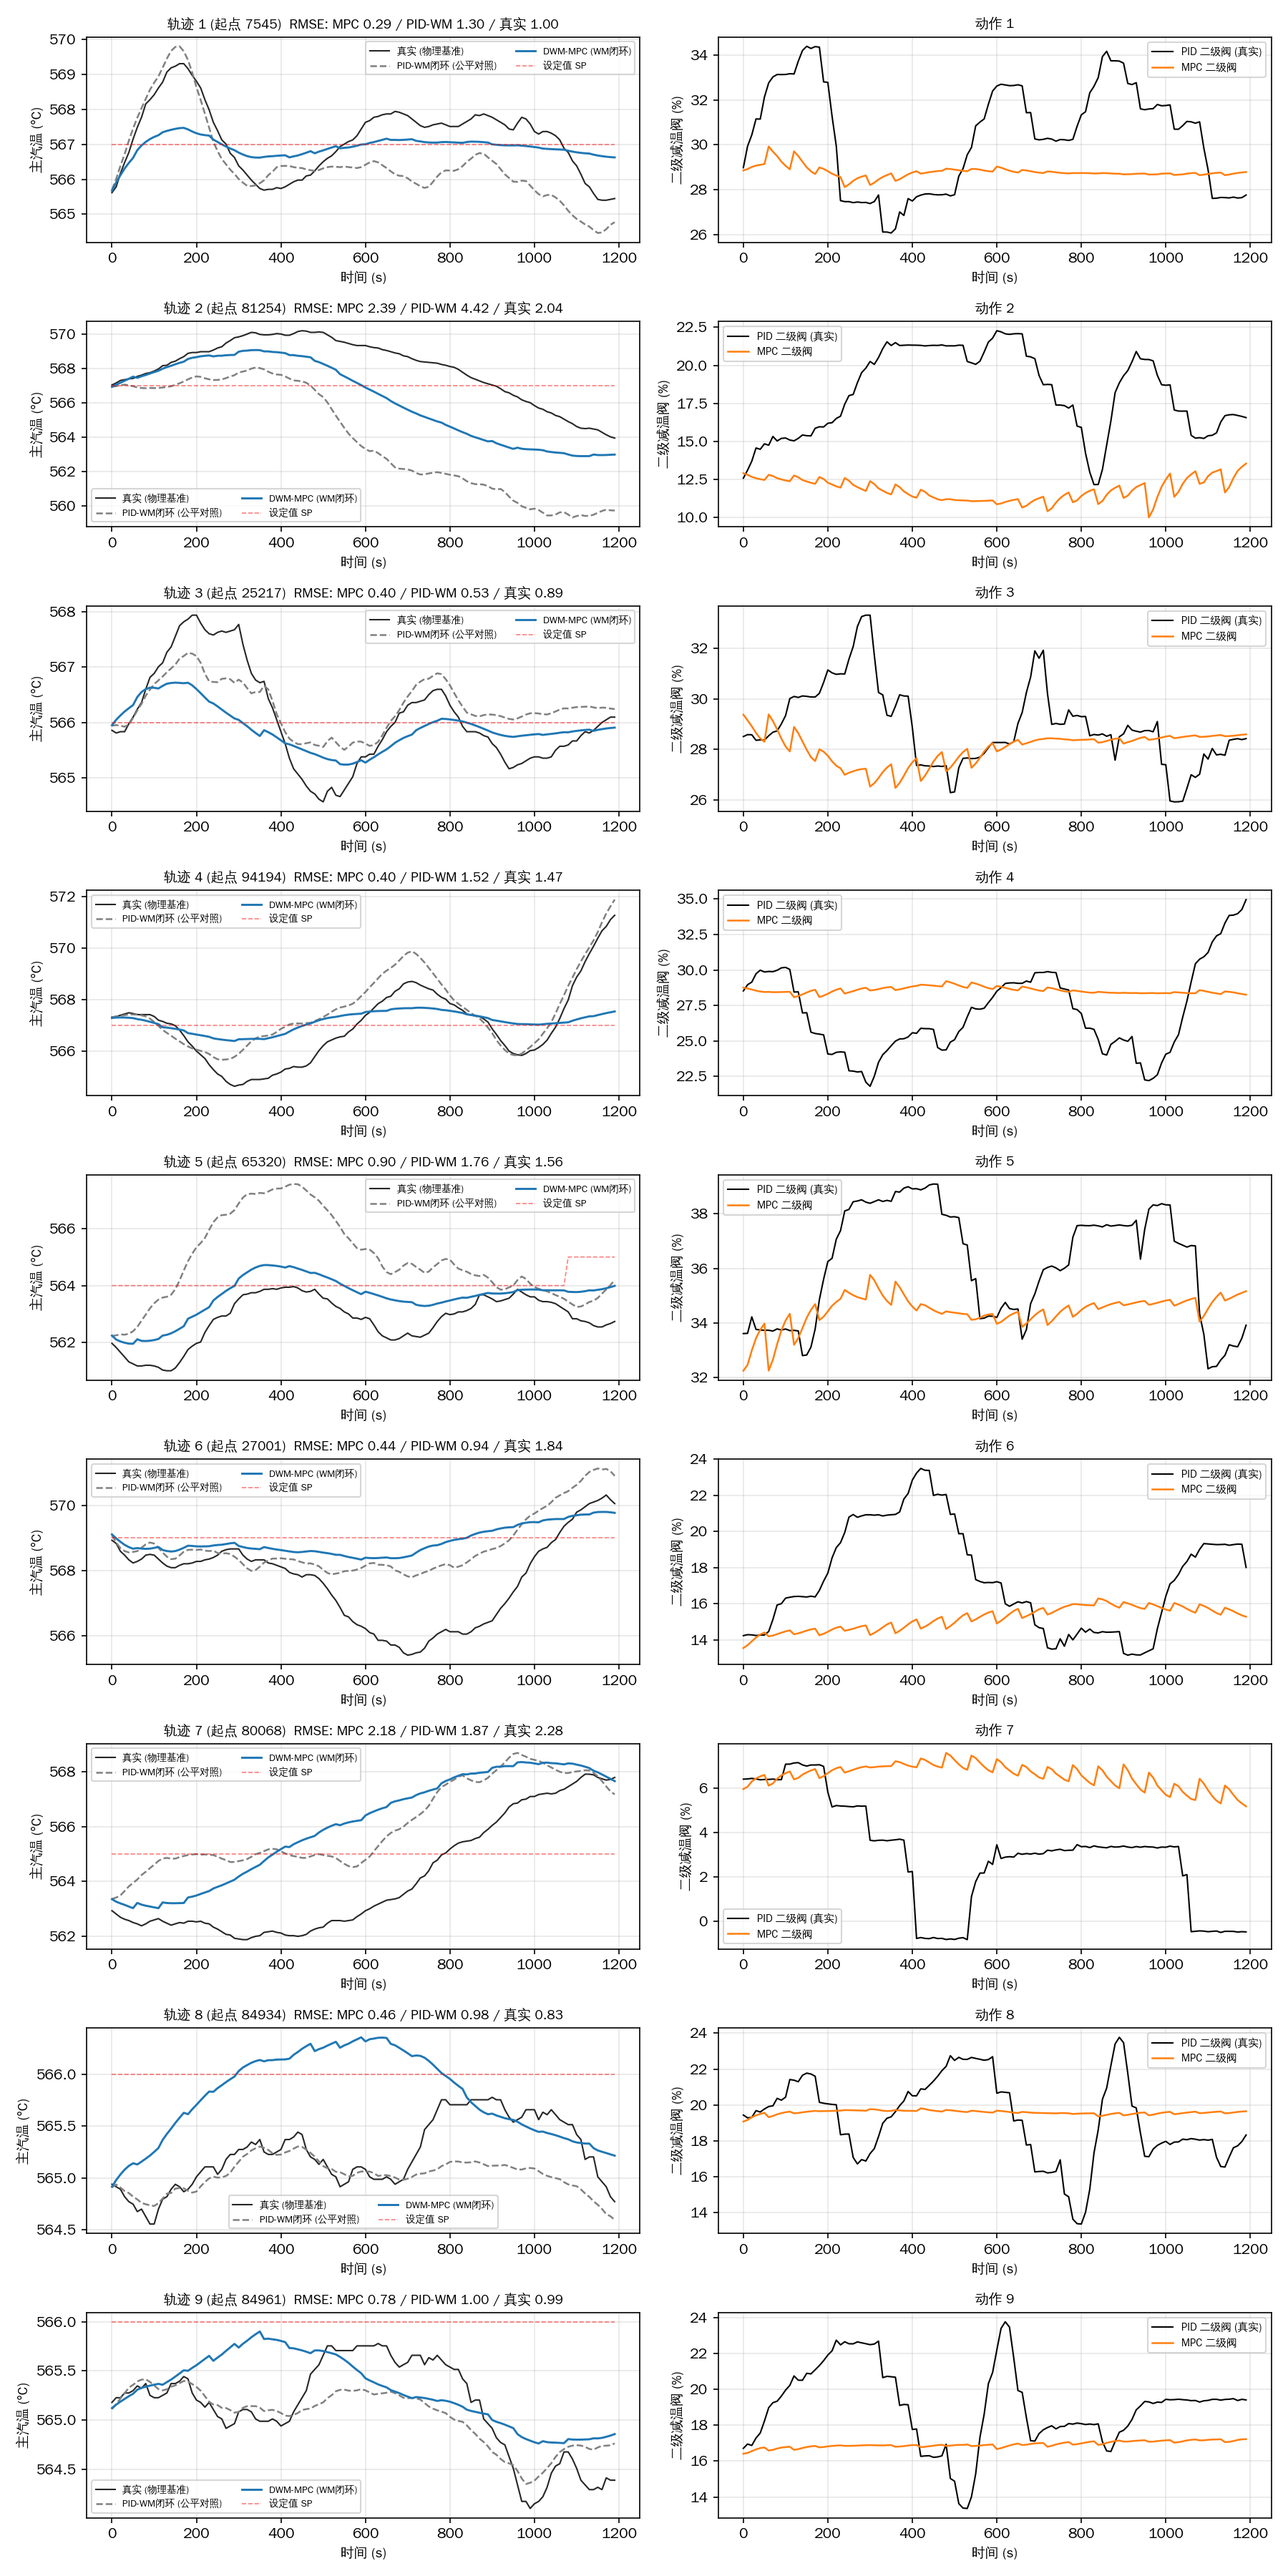
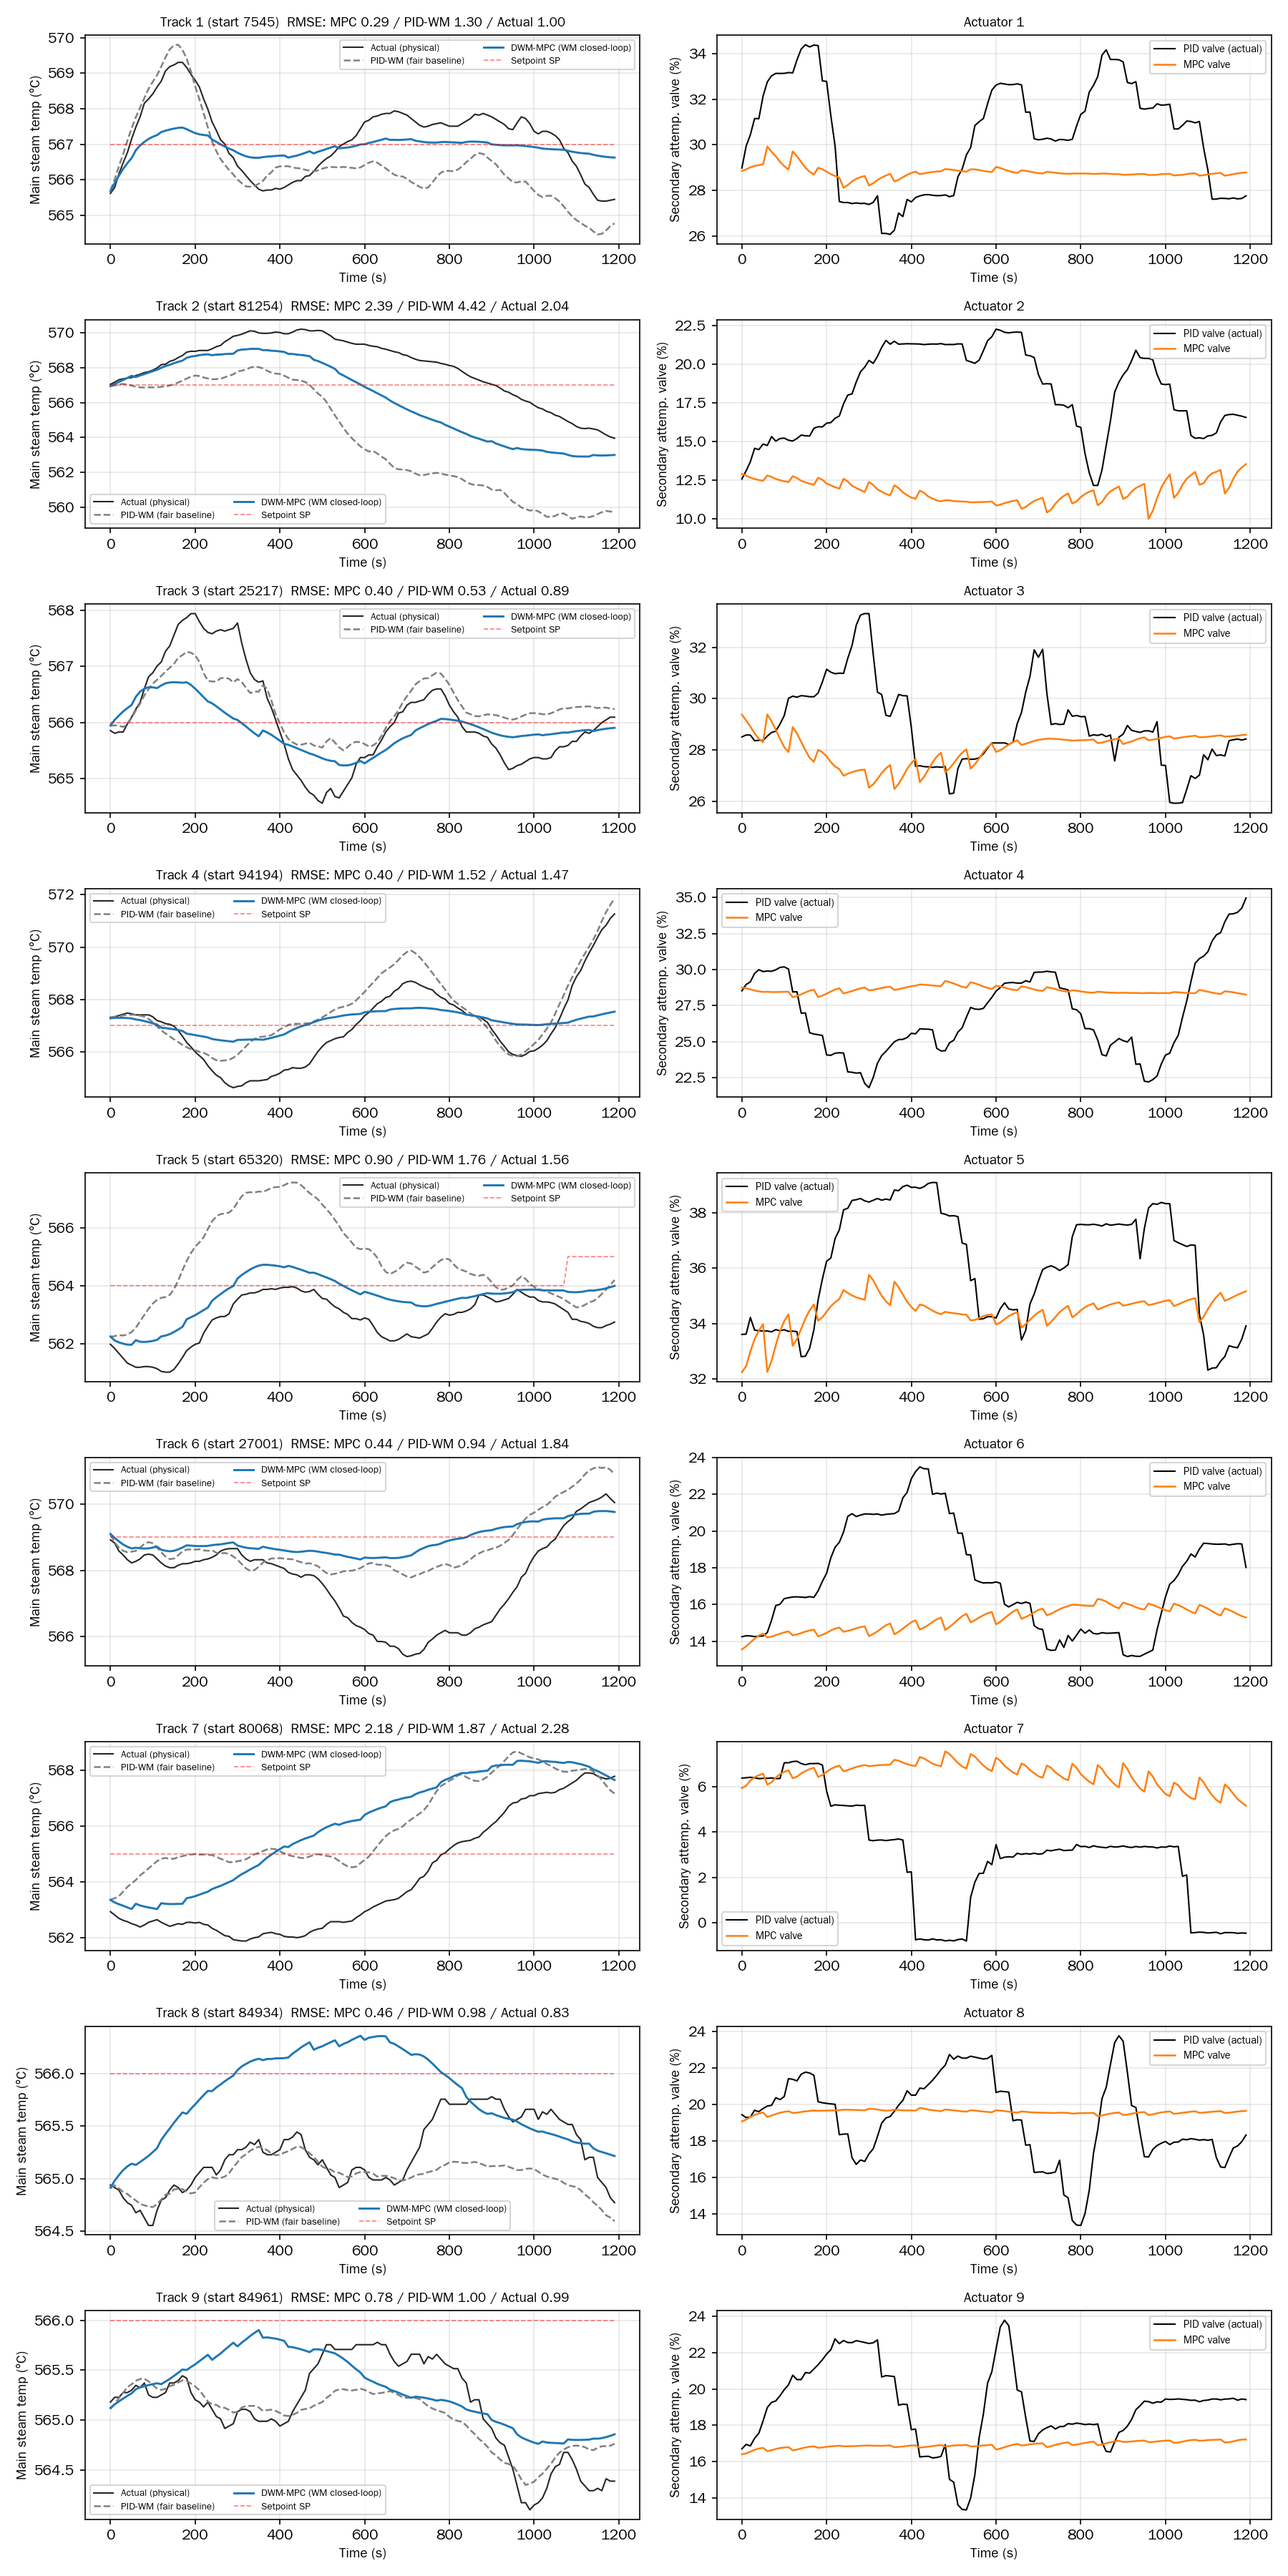
多样本图转英文(Applied Energy投稿): 三视角(Actual/PID-WM/MPC-WM)+英文标注, 9条轨迹

diff --git a/exp_042_multi_trajectories.py b/exp_042_multi_trajectories.py
@@ -76,28 +76,28 @@ json.dump(results, open("results/exp_042_trajectories.json", 'w'), indent=2, def
 fig, axes = plt.subplots(9, 2, figsize=(12, 24))
 for row, r in enumerate(results):
     t = np.arange(len(r['temp_mpc'])) * 10  # 秒
-    # 左: 温度 (三视角)
+    # Left: temperature (three views)
     ax = axes[row, 0]
-    ax.plot(t, r['temp_real'], 'k-', lw=1.0, alpha=0.85, label='真实 (物理基准)')
-    ax.plot(t, r['temp_pidwm'], 'gray', lw=1.2, ls='--', label='PID-WM闭环 (公平对照)')
-    ax.plot(t, r['temp_mpc'], 'C0-', lw=1.4, label='DWM-MPC (WM闭环)')
-    ax.plot(t, r['sp'], 'r--', lw=0.8, alpha=0.5, label='设定值 SP')
-    ax.set_ylabel('主汽温 (°C)', fontsize=9)
+    ax.plot(t, r['temp_real'], 'k-', lw=1.0, alpha=0.85, label='Actual (physical)')
+    ax.plot(t, r['temp_pidwm'], 'gray', lw=1.2, ls='--', label='PID-WM (fair baseline)')
+    ax.plot(t, r['temp_mpc'], 'C0-', lw=1.4, label='DWM-MPC (WM closed-loop)')
+    ax.plot(t, r['sp'], 'r--', lw=0.8, alpha=0.5, label='Setpoint SP')
+    ax.set_ylabel('Main steam temp (°C)', fontsize=9)
     ax.legend(fontsize=6.5, loc='best', ncol=2)
-    ax.set_title(f"轨迹 {row+1} (起点 {r['start']})  RMSE: MPC {r['rmse_mpc']:.2f} / PID-WM {r['rmse_pidwm']:.2f} / 真实 {r['rmse_pidreal']:.2f}", fontsize=9)
+    ax.set_title(f"Track {row+1} (start {r['start']})  RMSE: MPC {r['rmse_mpc']:.2f} / PID-WM {r['rmse_pidwm']:.2f} / Actual {r['rmse_pidreal']:.2f}", fontsize=9)
     ax.grid(alpha=0.3)
-    # 右: 二级阀动作
+    # Right: secondary valve action
     ax = axes[row, 1]
-    ax.plot(t, r['act_pid'], 'k-', lw=1.0, label='PID 二级阀 (真实)')
-    ax.plot(t, r['act_mpc'], 'C1-', lw=1.2, label='MPC 二级阀')
-    ax.set_ylabel('二级减温阀 (%)', fontsize=9)
+    ax.plot(t, r['act_pid'], 'k-', lw=1.0, label='PID valve (actual)')
+    ax.plot(t, r['act_mpc'], 'C1-', lw=1.2, label='MPC valve')
+    ax.set_ylabel('Secondary attemp. valve (%)', fontsize=9)
     ax.legend(fontsize=7, loc='best')
-    ax.set_title(f"动作 {row+1}", fontsize=9)
+    ax.set_title(f"Actuator {row+1}", fontsize=9)
     ax.grid(alpha=0.3)
 for ax in axes[:, 0]:
-    ax.set_xlabel('时间 (s)', fontsize=9)
+    ax.set_xlabel('Time (s)', fontsize=9)
 for ax in axes[:, 1]:
-    ax.set_xlabel('时间 (s)', fontsize=9)
+    ax.set_xlabel('Time (s)', fontsize=9)
 plt.tight_layout()
 plt.savefig('figures/fig_multi_trajectories.png', dpi=150)
 print("\nSaved: figures/fig_multi_trajectories.png")
